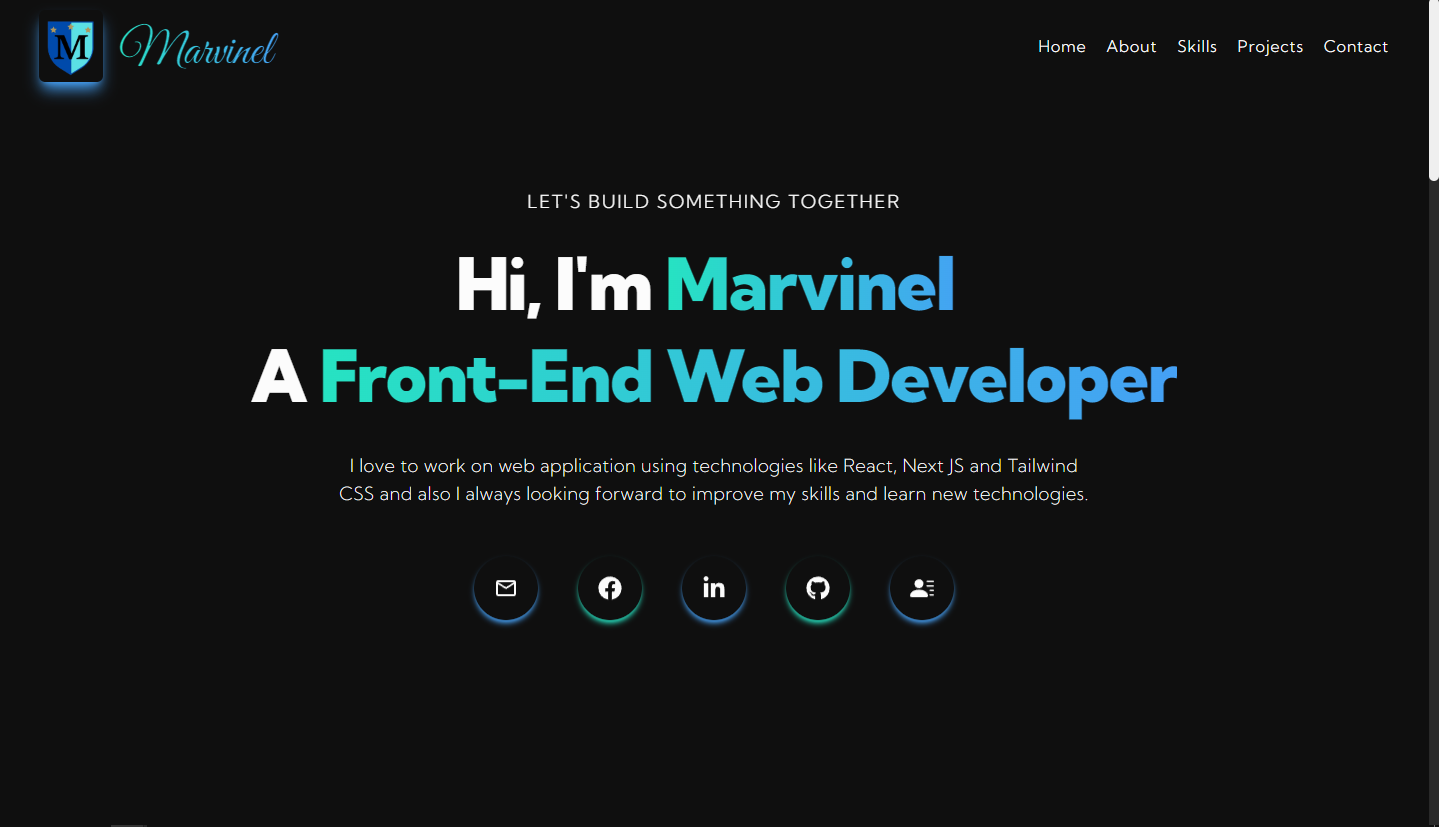
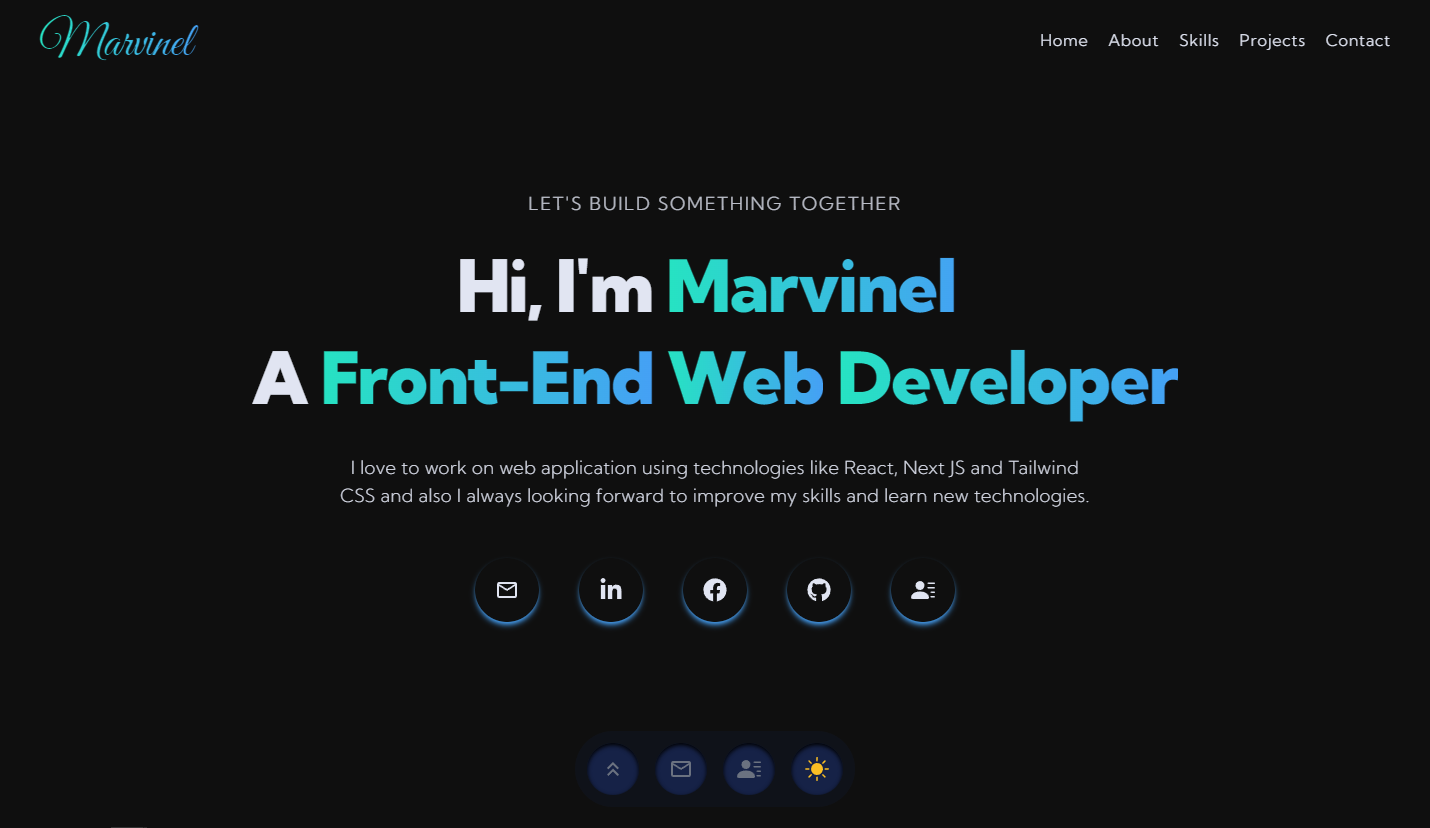
pages updated

diff --git a/src/pages/PorfolioDetailsPage.jsx b/src/pages/PorfolioDetailsPage.jsx
@@ -1,0 +1,123 @@
+import Text from "../components/reusable_components/reusable_text/Text";
+import React, { useState } from "react";
+import { portfolioAppImgData } from "../data/ProjectData";
+import CoverPhoto from "../assets/projects-screen-shot/portfolio-app/cover.png";
+import { BiCodeAlt, BiArrowBack } from "react-icons/bi";
+import { BsGlobe2 } from "react-icons/bs";
+import {
+  MdRadioButtonChecked,
+  MdOutlineScreenshotMonitor,
+} from "react-icons/md";
+import ProjectScreenShot from "../components/project_screenshots/ProjectScreenshot";
+import { Link } from "react-router-dom";
+
+function PortfolioDetailsPage() {
+  const [openScreenShot, setOpenScreenShot] = useState(false);
+
+  const handleOpenScreenShot = () => {
+    setOpenScreenShot((prevState) => !prevState);
+  };
+
+  const techData = [
+    "React JS",
+    "JavaScript",
+    "Vite",
+    "Tailwind CSS",
+    "React Router",
+  ];
+
+  return (
+    <div className="min-h-screen w-full text-dark dark:text-light dark:bg-dark bg-light">
+      <div className="w-full h-[30vh] md:h-[40vh] relative bg-black">
+        <img
+          src={CoverPhoto}
+          alt="cover-photo"
+          className="h-full w-full object-cover opacity-30"
+        />
+        <div className="absolute left-0 h-full w-full top-[60%] md:top-[70%] text-light">
+          <div className="w-full max-w-6xl mx-auto px-4">
+            <div className="w-full flex items-center justify-between">
+              <h1 className="font-bold text-xl md:text-3xl">
+                Animated on Scroll Landing Page
+              </h1>
+              <Link to={"/"}>
+                <div className="flex rounded-xl cursor-pointer items-center gap-1 bg-indigo-500 w-fit p-2 md:text-base text-sm md:p-3">
+                  <BiArrowBack size={15} />
+                  Back
+                </div>
+              </Link>
+            </div>
+            <h2 className="text-sm md:text-lg mt-3">
+              React JS / Tailwind / Animated on Scroll Library
+            </h2>
+          </div>
+        </div>
+      </div>
+
+      <div className="w-full max-w-6xl mx-auto mt-1 md:mt-5 px-4">
+        <h1 className="font-bold text-xl md:text-4xl">
+          <Text>Project</Text> <Text>Description</Text>
+        </h1>
+
+        <div className="mt-5 md:mt-10 flex md:flex-row flex-col items-center justify-between">
+          <div>
+            <h2 className="md:text-3xl font-bold">Overview</h2>
+            <p className="md:mt-5 mt-2 text-sm md:text-base md:w-[550px]">
+              In this project, I created My Very Own Porfolio Website with
+              smooth animation. I created it in React JS, Vite and Tailwind CSS
+              as my CSS framework. I used React Router to handle my routing of
+              pages. I used a library called AOS Animate on Scroll Library for
+              the animation. This application is hosted in Vercel.
+            </p>
+            <div className="flex text-indigo-700 dark:text-primary items-center gap-4 md:gap-8 my-4 md:mt-8 text-sm md:text-base">
+              <a
+                href="https://github.com/marvinel1013/marvinelsantos-portfolio"
+                target={"_blank"}
+              >
+                <span className="flex items-center gap-2 p-3 shadow-md shadow-black hover:scale-110 duration-300 ease-in cursor-pointer rounded-md">
+                  Code
+                  <BiCodeAlt size={20} />
+                </span>
+              </a>
+
+              <span
+                onClick={handleOpenScreenShot}
+                className="flex items-center gap-2 p-3 shadow-md shadow-black hover:scale-110 duration-300 ease-in cursor-pointer rounded-md"
+              >
+                Screenshots
+                <MdOutlineScreenshotMonitor size={20} />
+              </span>
+            </div>
+          </div>
+          <div className="md:p-4 px-3 mb-28 p-2 md:px-6 shadow-md rounded-md shadow-black md:text-start text-center md:w-fit w-full">
+            <h3 className="text-lg md:text-2xl font-bold tracking-wide mb-5">
+              Technologies
+            </h3>
+            <ul className="grid md:grid-cols-1 grid-cols-2">
+              {techData.map((tech, index) => (
+                <li
+                  key={index}
+                  className="flex items-center gap-3 mb-3 text-indigo-700 dark:text-primary"
+                >
+                  <MdRadioButtonChecked />
+
+                  <span className="dark:text-light text-dark">{tech}</span>
+                </li>
+              ))}
+            </ul>
+          </div>
+        </div>
+      </div>
+      {openScreenShot && (
+        <div>
+          <ProjectScreenShot
+            imgData={portfolioAppImgData}
+            handleOpenScreenShot={handleOpenScreenShot}
+          />
+        </div>
+      )}
+    </div>
+  );
+}
+
+export default PortfolioDetailsPage;

diff --git a/src/data/ProjectData.js b/src/data/ProjectData.js
@@ -32,6 +32,18 @@ import TodoAppImg3 from "../assets/projects-screen-shot/todo-app/3.png";
 import TodoAppImg4 from "../assets/projects-screen-shot/todo-app/4.png";
 import TodoAppImg5 from "../assets/projects-screen-shot/todo-app/5.png";
 import TodoAppImg6 from "../assets/projects-screen-shot/todo-app/6.png";
+import PortfolioAppImg1 from "../assets/projects-screen-shot/portfolio-app/1.png";
+import PortfolioAppImg2 from "../assets/projects-screen-shot/portfolio-app/2.png";
+import PortfolioAppImg3 from "../assets/projects-screen-shot/portfolio-app/3.png";
+import PortfolioAppImg4 from "../assets/projects-screen-shot/portfolio-app/4.png";
+import PortfolioAppImg5 from "../assets/projects-screen-shot/portfolio-app/5.png";
+import PortfolioAppImg6 from "../assets/projects-screen-shot/portfolio-app/6.png";
+import PortfolioAppImg7 from "../assets/projects-screen-shot/portfolio-app/7.png";
+import PortfolioAppImg8 from "../assets/projects-screen-shot/portfolio-app/8.png";
+import PortfolioAppImg9 from "../assets/projects-screen-shot/portfolio-app/9.png";
+import PortfolioAppImg10 from "../assets/projects-screen-shot/portfolio-app/10.png";
+import PortfolioAppImg11 from "../assets/projects-screen-shot/portfolio-app/11.png";
+import PortfolioAppImg12 from "../assets/projects-screen-shot/portfolio-app/12.png";
 
 export const NavLinks = ["home", "about", "skills", "projects", "contact"];
 
@@ -120,4 +132,19 @@ export const todoAppImgData = [
   TodoAppImg4,
   TodoAppImg5,
   TodoAppImg6,
+];
+
+export const portfolioAppImgData = [
+  PortfolioAppImg1,
+  PortfolioAppImg2,
+  PortfolioAppImg3,
+  PortfolioAppImg4,
+  PortfolioAppImg5,
+  PortfolioAppImg6,
+  PortfolioAppImg7,
+  PortfolioAppImg8,
+  PortfolioAppImg9,
+  PortfolioAppImg10,
+  PortfolioAppImg11,
+  PortfolioAppImg12,
 ];

diff --git a/src/App.jsx b/src/App.jsx
@@ -8,6 +8,9 @@ import NotesDetailsPage from "./pages/NotesDetailsPage";
 import MovieDetailsPage from "./pages/MovieDetailsPage";
 import LandingPageDetailsPage from "./pages/LandingPageDetailsPage";
 import SplashScreen from "./components/splash_screen/SplashScreen";
+import PorfolioDetailsPage from "./pages/PorfolioDetailsPage";
+import AOS from "aos";
+import "aos/dist/aos.css";
 
 function App() {
   //Darkmode Theme
@@ -23,6 +26,11 @@ function App() {
   const handleToggleDarkmode = () => {
     setDarkmode((prevMode) => !prevMode);
   };
+
+  AOS.init({
+    duration: 1000,
+    offset: 0,
+  });
 
   return (
     <Router>
@@ -40,6 +48,10 @@ function App() {
               <Route
                 path="/landingPageDetails"
                 element={<LandingPageDetailsPage />}
+              />
+              <Route
+                path="/portfolioDetails"
+                element={<PorfolioDetailsPage />}
               />
             </Routes>
             <MiniMenuBar

diff --git a/src/components/section/About.jsx b/src/components/section/About.jsx
@@ -40,12 +40,14 @@ function About() {
               to achieve my dreams to become a Full Stack Web Developer.
             </p>
             <div className="flex justify-center lg:justify-start">
-              <Button style="md:p-4 md:text-base text-sm p-3 font-semibold flex items-center gap-2 rounded-md mt-8">
-                Download CV{" "}
-                <span className="animate-bounce">
-                  <BsDownload size={23} />
-                </span>
-              </Button>
+              <a href="/MarvinelSantosResume.pdf" download={true}>
+                <Button style="md:p-4 md:text-base text-sm p-3 font-semibold flex items-center gap-2 rounded-md mt-8">
+                  Download CV{" "}
+                  <span className="animate-bounce">
+                    <BsDownload size={23} />
+                  </span>
+                </Button>
+              </a>
             </div>
           </div>
 

diff --git a/src/components/section/Hero.jsx b/src/components/section/Hero.jsx
@@ -36,7 +36,11 @@ function Hero() {
     <div className="h-screen w-full dark:text-light text-dark">
       <div className="h-full w-full max-w-6xl mx-auto flex items-center justify-center">
         <div className="text-center">
-          <h2 className=" text-sm md:text-lg tracking-widest uppercase font-light mb-8 dark:animate-pulse">
+          <h2
+            className=" text-sm md:text-lg tracking-widest uppercase font-light mb-8 dark:animate-pulse"
+            data-aos="zoom-in"
+            data-aos-delay="100"
+          >
             let's build something together
           </h2>
           <h1 className="text-4xl md:text-7xl tracking-tight font-black">

diff --git a/src/index.css b/src/index.css
@@ -10,3 +10,14 @@
     font-family: "Kumbh Sans", sans-serif;
   }
 }
+
+::-webkit-scrollbar {
+  width: 8px;
+}
+::-webkit-scrollbar-thumb {
+  background-color: #45a0f5;
+  border-radius: 40px;
+}
+::-webkit-scrollbar-track {
+  background-color: silver;
+}
